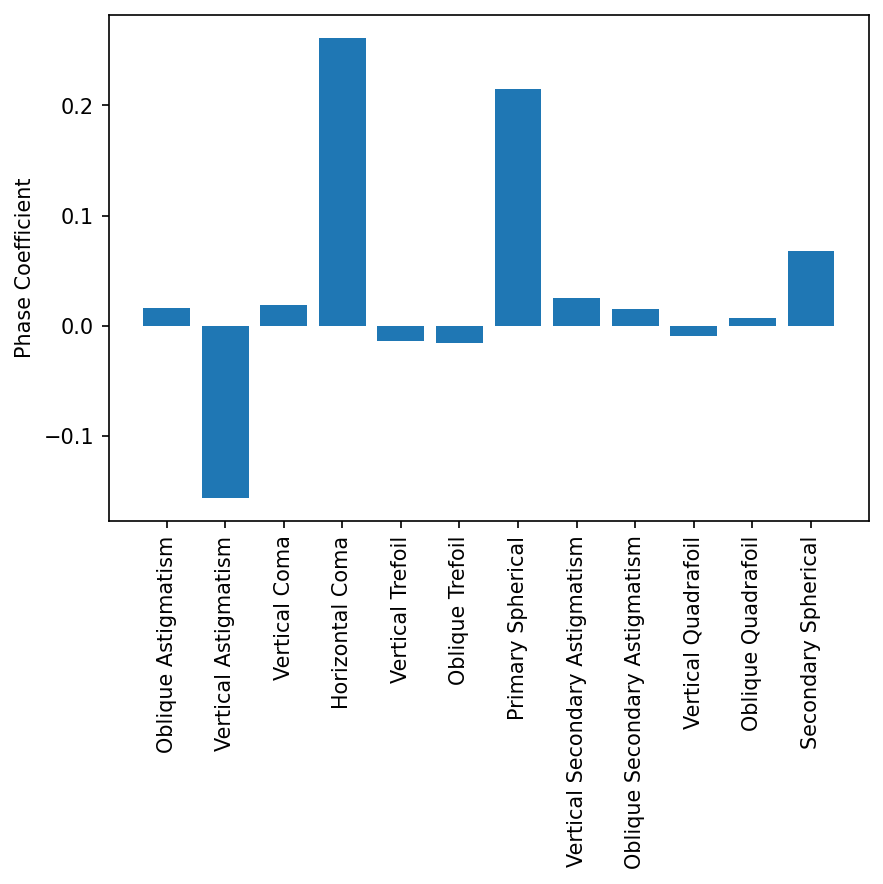
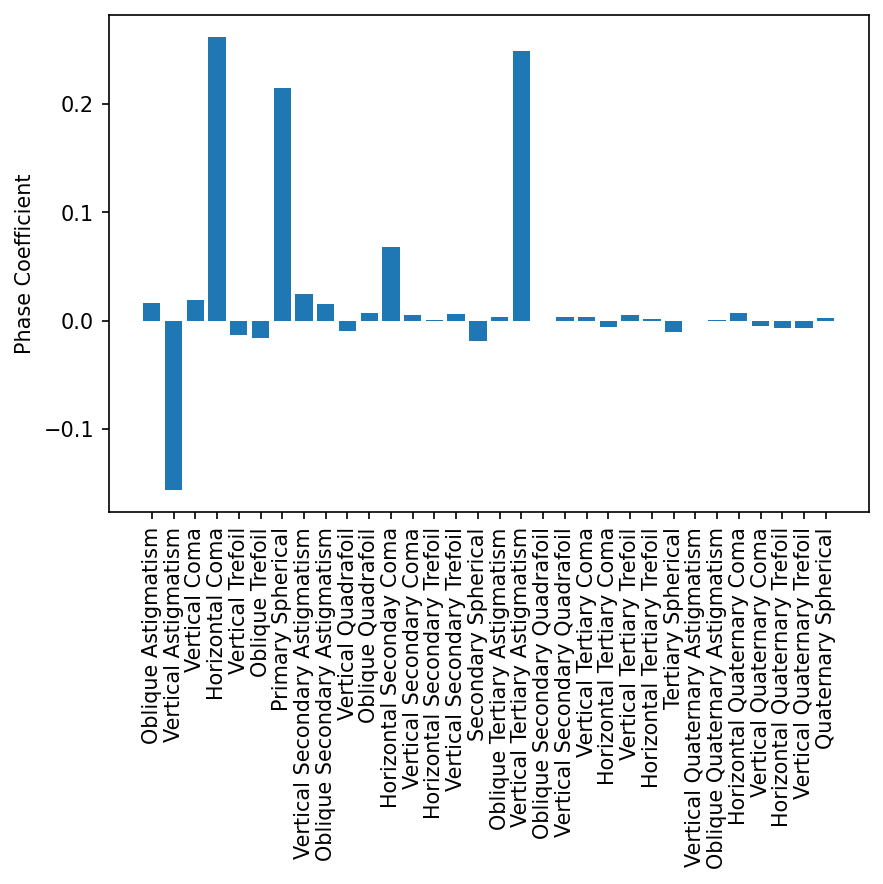
close #23 and #24

diff --git a/figures.py b/figures.py
@@ -16,7 +16,7 @@ from matplotlib import pyplot as plt
 import tifffile as tif
 
 from pyotf.otf import HanserPSF, SheppardPSF, apply_named_aberration
-from pyotf.zernike import zernike, cart2pol, noll2name, noll2degrees, name2noll
+from pyotf.zernike import zernike, cart2pol, degrees2name, noll2degrees, name2noll
 from pyotf.phaseretrieval import retrieve_phase
 from pyotf.utils import prep_data_for_PR
 
@@ -83,9 +83,9 @@ def aberration_plots(model_kwargs):
     model_kwargs["condition"] = "sine"
     model = HanserPSF(**model_kwargs)
 
-    fig, axs = plt.subplots(4, 4, figsize=(10, 10))
+    fig, axs = plt.subplots(6, 6, figsize=(18, 18))
     # fill out plot
-    for ax, name in zip(axs.ravel(), name2noll.keys()):
+    for ax, name in zip(axs.ravel(), degrees2name.values()):
         print(f"Making {name} plot")
         model2 = apply_named_aberration(model, name, 1)
         ax.imshow(
@@ -105,11 +105,11 @@ def zernike_plots():
     xx, yy = np.meshgrid(x, x)  # xy indexing is default
     r, theta = cart2pol(yy, xx)
     # set up plot
-    fig, axs = plt.subplots(4, 4, figsize=(16, 16))
+    fig, axs = plt.subplots(6, 6, figsize=(18, 18))
     # fill out plot
-    for ax, (k, v) in zip(axs.ravel(), noll2name.items()):
+    for ax, ((n, m), v) in zip(axs.ravel(), degrees2name.items()):
         print(f"Making {v} plot")
-        zern = zernike(r, theta, k, norm=False)
+        zern = zernike(r, theta, n, m, norm=False)
         ax.imshow(
             np.ma.array(zern, mask=r > 1),
             vmin=-1,
@@ -117,7 +117,7 @@ def zernike_plots():
             cmap="coolwarm",
             interpolation="bicubic",
         )
-        ax.set_title(v + r", $Z_{{{}}}^{{{}}}$".format(*noll2degrees(k)))
+        ax.set_title(v + r", $Z_{{{}}}^{{{}}}$".format(n, m))
         ax.axis("off")
     fig.tight_layout()
 

diff --git a/pyotf/otf.py b/pyotf/otf.py
@@ -22,7 +22,7 @@ from numpy.linalg import norm
 
 from .utils import NumericProperty, cart2pol, easy_fft, easy_ifft, psqrt, slice_maker
 from .display import psf_plot, otf_plot
-from .zernike import name2noll, zernike
+from .zernike import name2noll, zernike, noll2degrees
 
 logger = logging.getLogger(__name__)
 
@@ -630,7 +630,7 @@ def apply_aberration(model, mcoefs, pcoefs):
     # make zernikes (need to convert kr to r where r = 1 when kr is at
     # diffraction limit)
     r = kr * model.wl / model.na
-    zerns = zernike(r, theta, np.arange(len(mcoefs)) + 1)
+    zerns = zernike(r, theta, *noll2degrees(np.arange(len(mcoefs)) + 1))
 
     pupil_phase = (zerns * pcoefs[:, None, None]).sum(0)
     pupil_mag = (zerns * mcoefs[:, None, None]).sum(0)
